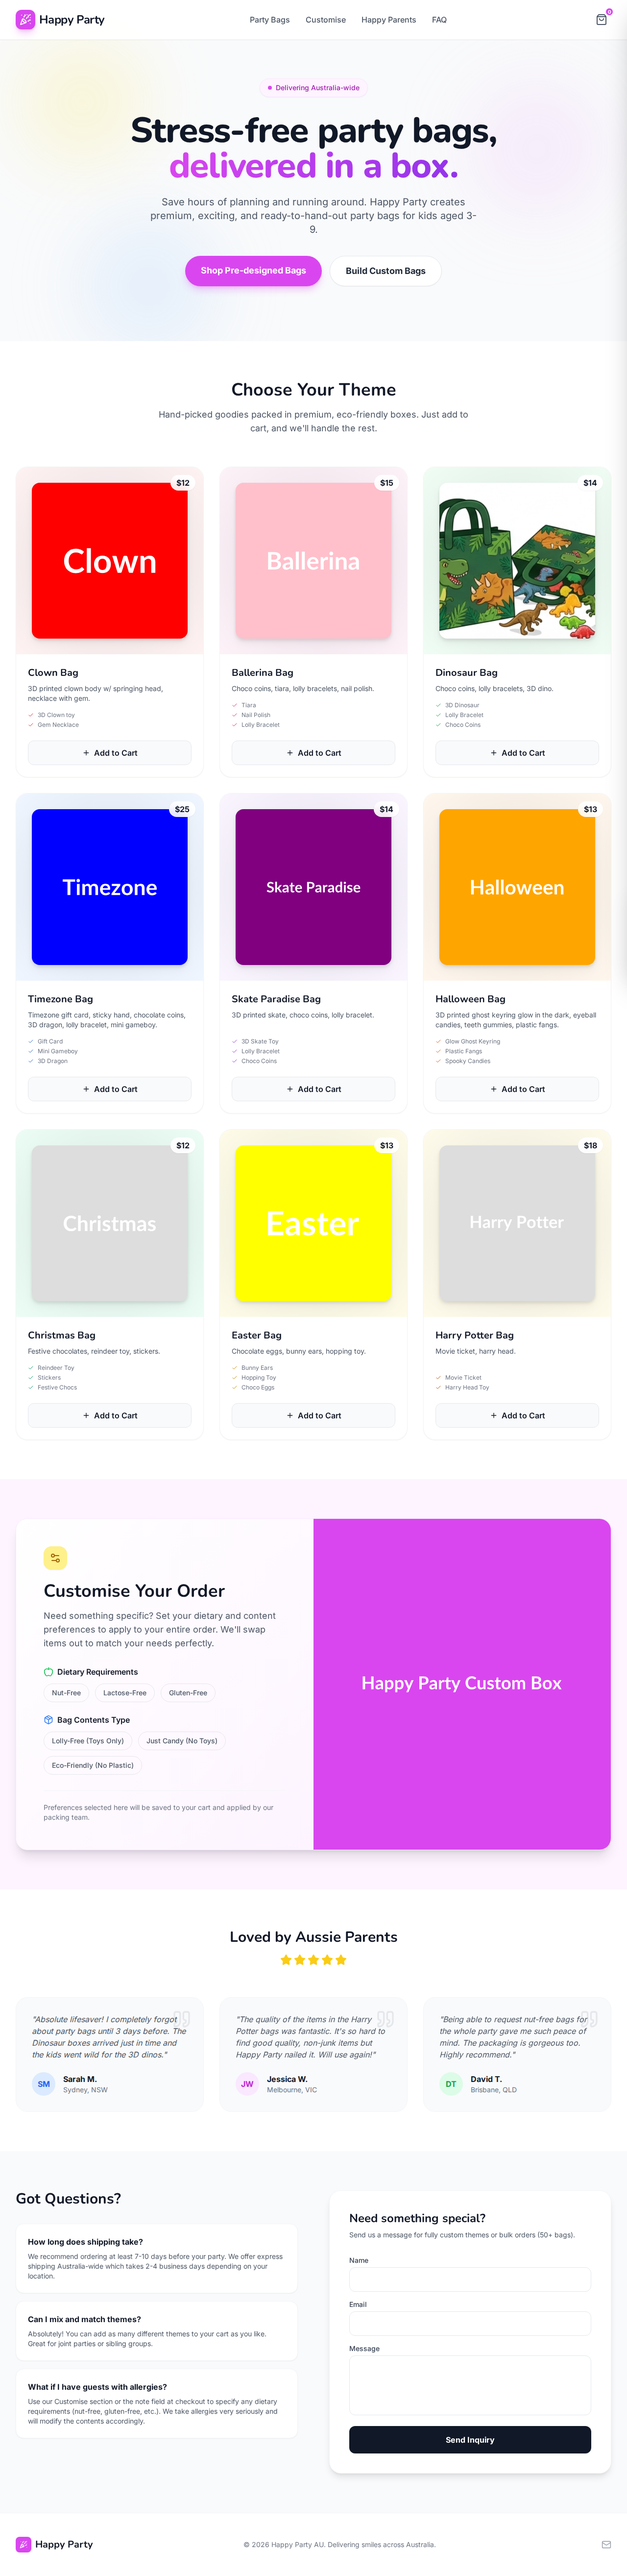
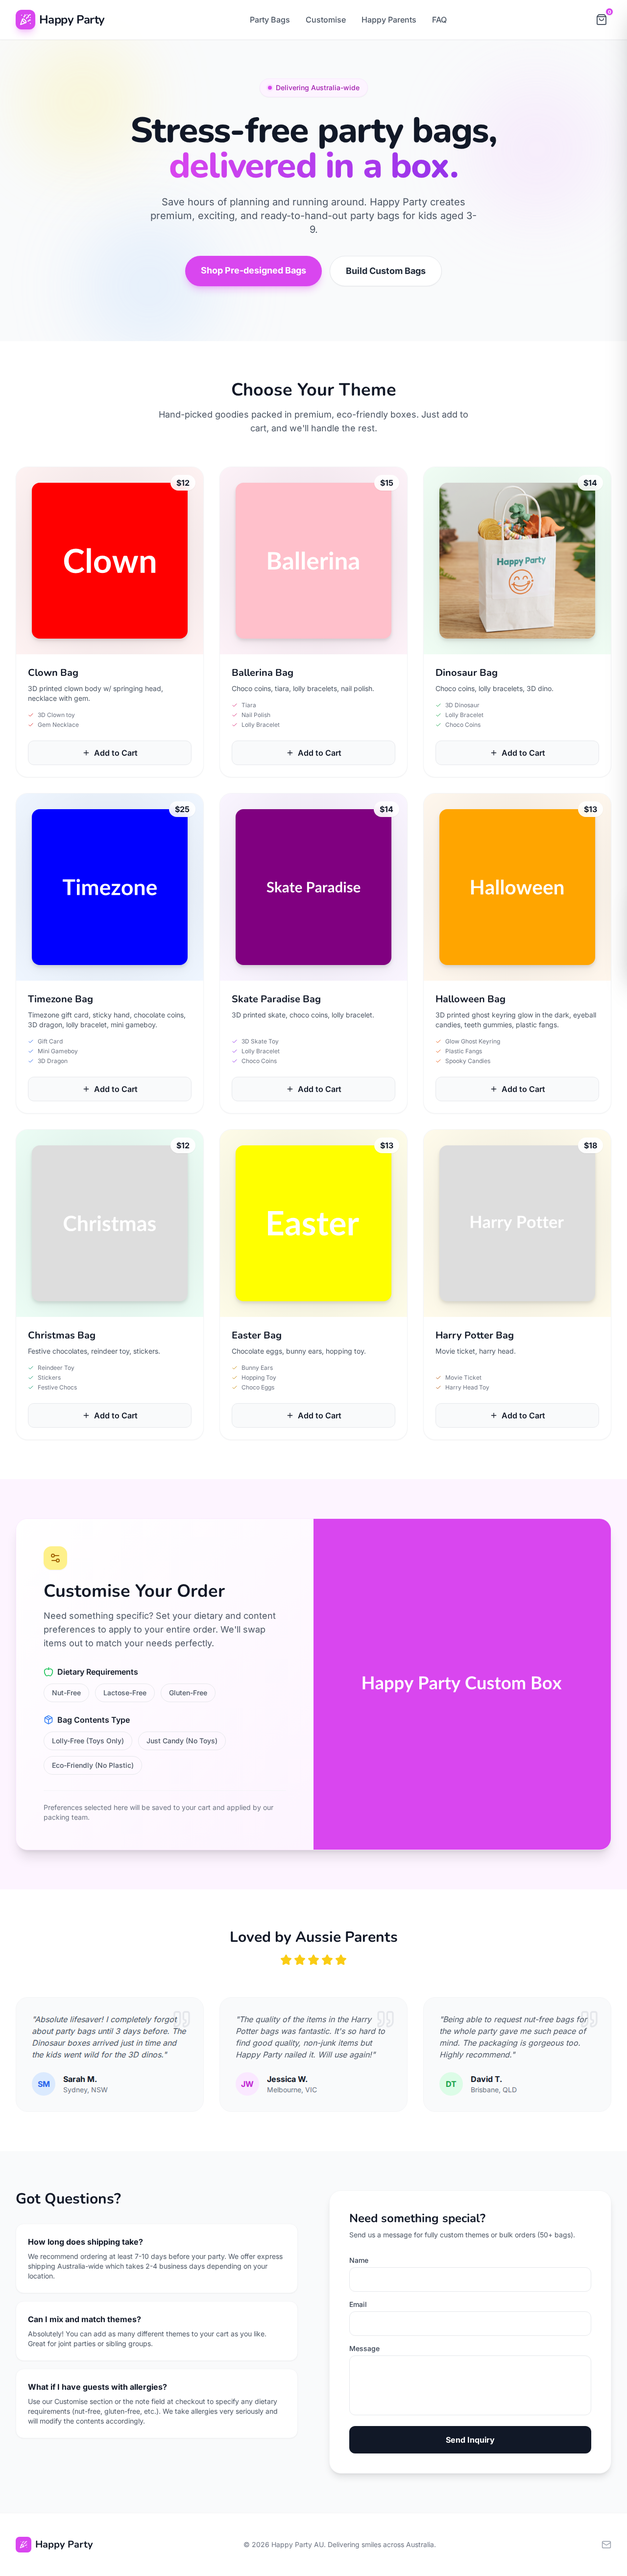
fix: Use watermarked_img_3227941079437726468.jpg for dinosaur party bag

Changed region(s): [[0.6875, 0.1872, 0.9688, 0.2496]]

diff --git a/index.html b/index.html
@@ -387,7 +387,7 @@
         const products = [
             { id: 'p1', name: 'Clown', price: 12, color: 'bg-red-50', textCol: 'text-red-600', desc: '3D printed clown body w/ springing head, necklace with gem.', items: ['3D Clown toy', 'Gem Necklace'] },
             { id: 'p2', name: 'Ballerina', price: 15, color: 'bg-pink-50', textCol: 'text-pink-600', desc: 'Choco coins, tiara, lolly bracelets, nail polish.', items: ['Tiara', 'Nail Polish', 'Lolly Bracelet', 'Choco Coins'] },
-            { id: 'p3', name: 'Dinosaur', price: 14, color: 'bg-green-50', textCol: 'text-green-600', desc: 'Choco coins, lolly bracelets, 3D dino.', items: ['3D Dinosaur', 'Lolly Bracelet', 'Choco Coins'], image: 'dino_bag.png' },
+            { id: 'p3', name: 'Dinosaur', price: 14, color: 'bg-green-50', textCol: 'text-green-600', desc: 'Choco coins, lolly bracelets, 3D dino.', items: ['3D Dinosaur', 'Lolly Bracelet', 'Choco Coins'], image: 'watermarked_img_3227941079437726468.jpg' },
             { id: 'p4', name: 'Timezone', price: 25, color: 'bg-blue-50', textCol: 'text-blue-600', desc: 'Timezone gift card, sticky hand, chocolate coins, 3D dragon, lolly bracelet, mini gameboy.', items: ['Gift Card', 'Mini Gameboy', '3D Dragon', 'Sticky Hand'] },
             { id: 'p5', name: 'Skate Paradise', price: 14, color: 'bg-purple-50', textCol: 'text-purple-600', desc: '3D printed skate, choco coins, lolly bracelet.', items: ['3D Skate Toy', 'Lolly Bracelet', 'Choco Coins'] },
             { id: 'p6', name: 'Halloween', price: 13, color: 'bg-orange-50', textCol: 'text-orange-600', desc: '3D printed ghost keyring glow in the dark, eyeball candies, teeth gummies, plastic fangs.', items: ['Glow Ghost Keyring', 'Plastic Fangs', 'Spooky Candies'] },
